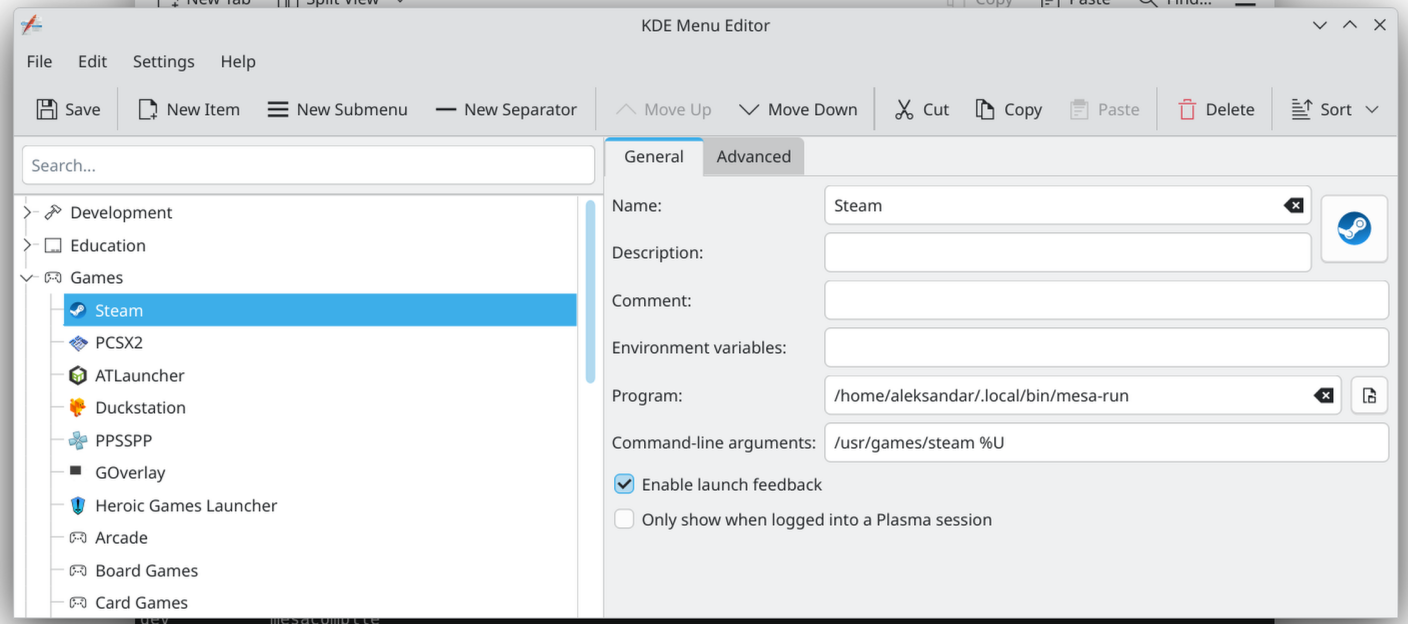
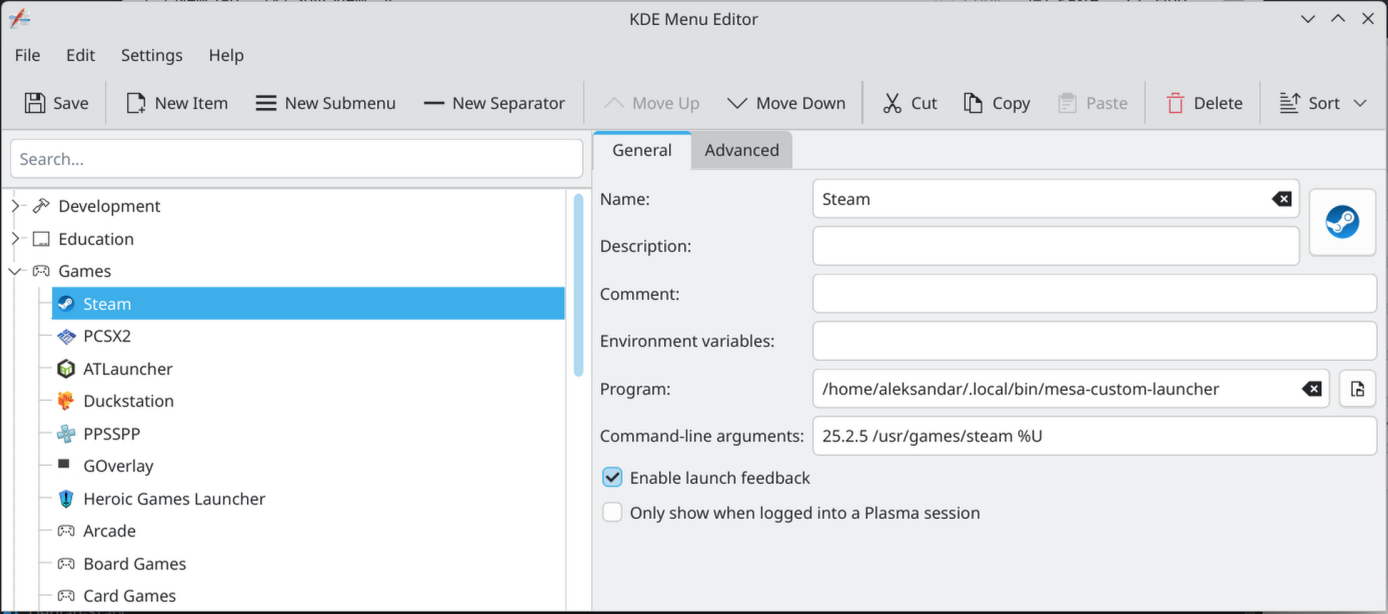
Update Mesa

diff --git a/mesa-custom-builds/README.md b/mesa-custom-builds/README.md
@@ -13,6 +13,6 @@ Example if compiling mesa 25.2.4: `meson setup builddir --libdir lib64 --prefix=
 * Run `meson install -C builddir` to install it to the prefix
 * Exit the container
 * Add in `.bashrc` after all path updates the line `export PATH=$PATH:~/.local/bin`
-* Use `mesa-custom-launcher YOUR_MESA_VERSION your_app [...your_args]` to point to the newer `Mesa`
+* Use [mesa-custom-launcher](https://github.com/AleksandarBayrev/mesa-custom-launcher) like this: `mesa-custom-launcher YOUR_MESA_VERSION your_app [...your_args]` to point to the newer `Mesa`
 * Or edit your application entries (for KDE an example with KDE Menu Editor):
 <img src="./kde-menu-howto.png" />
